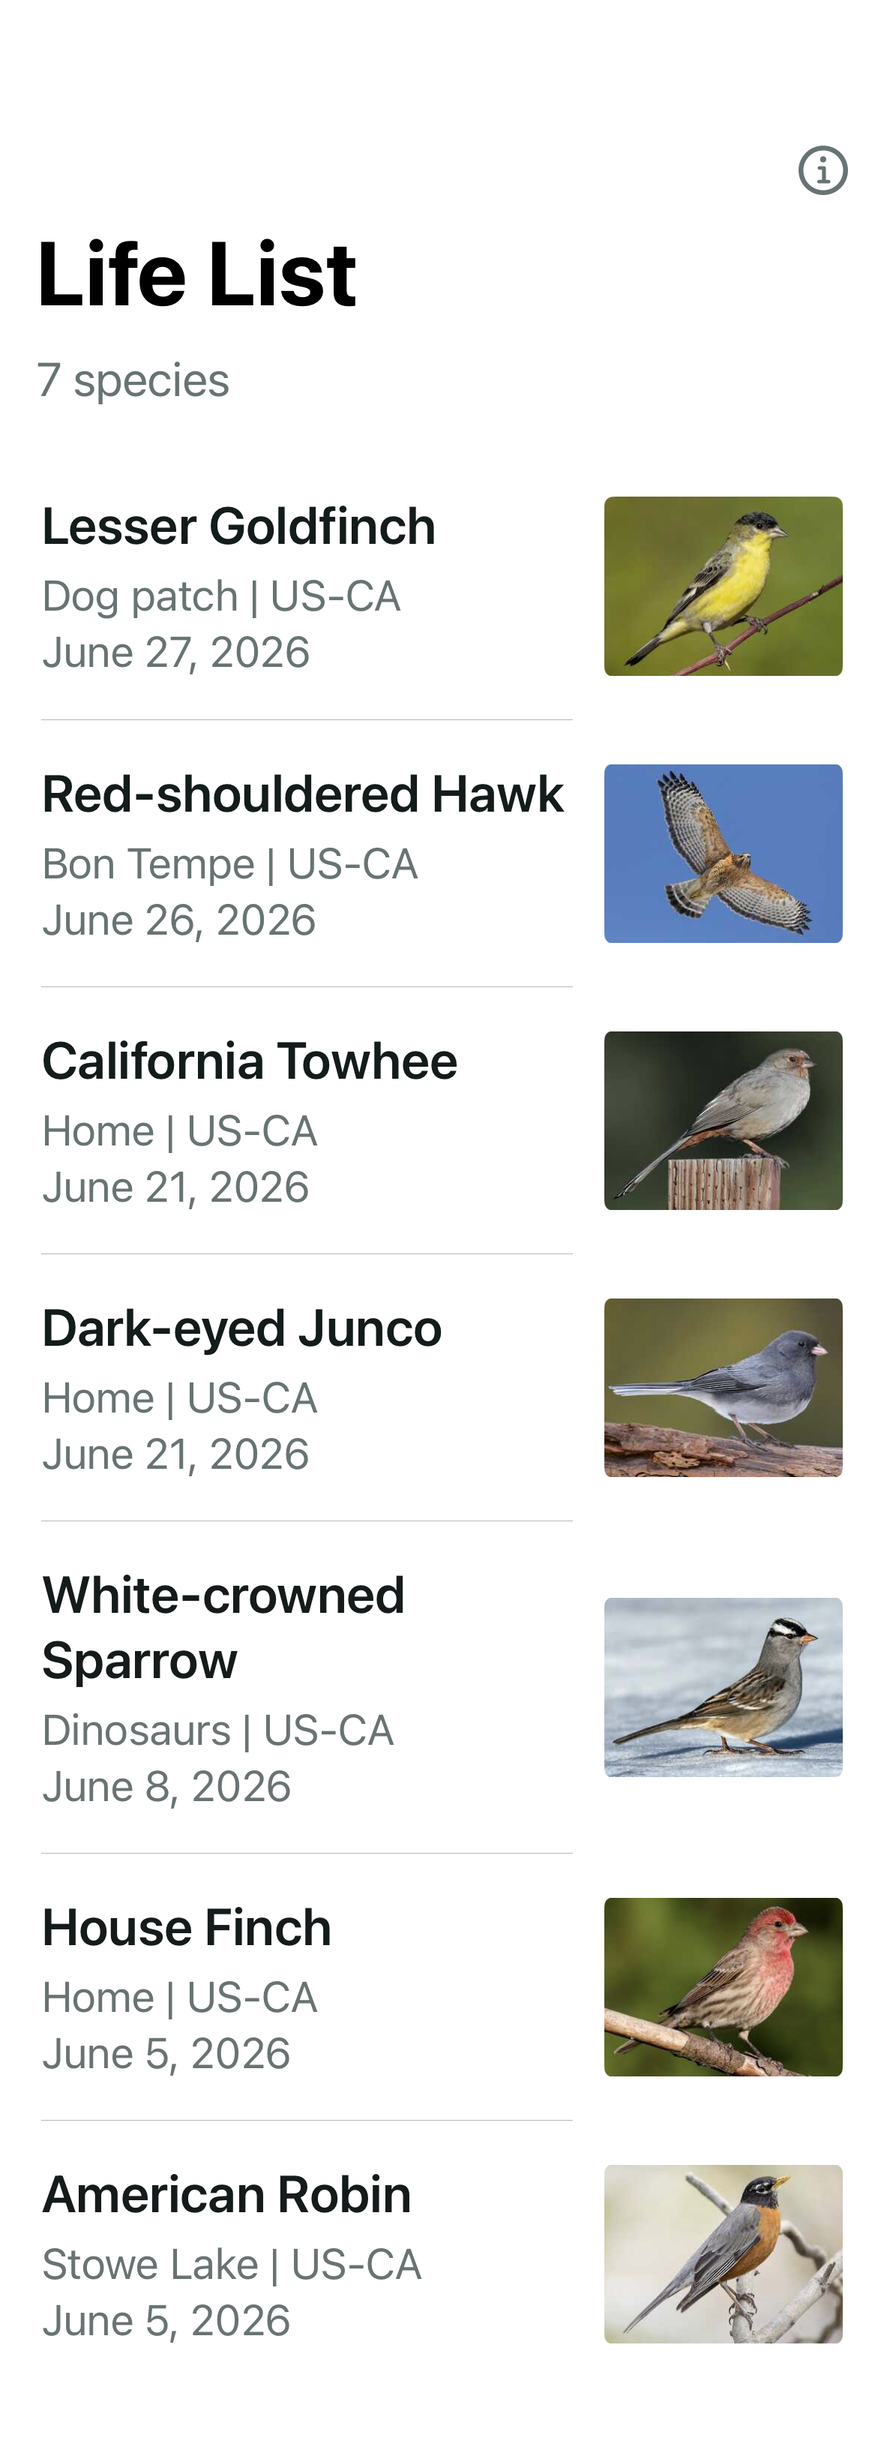
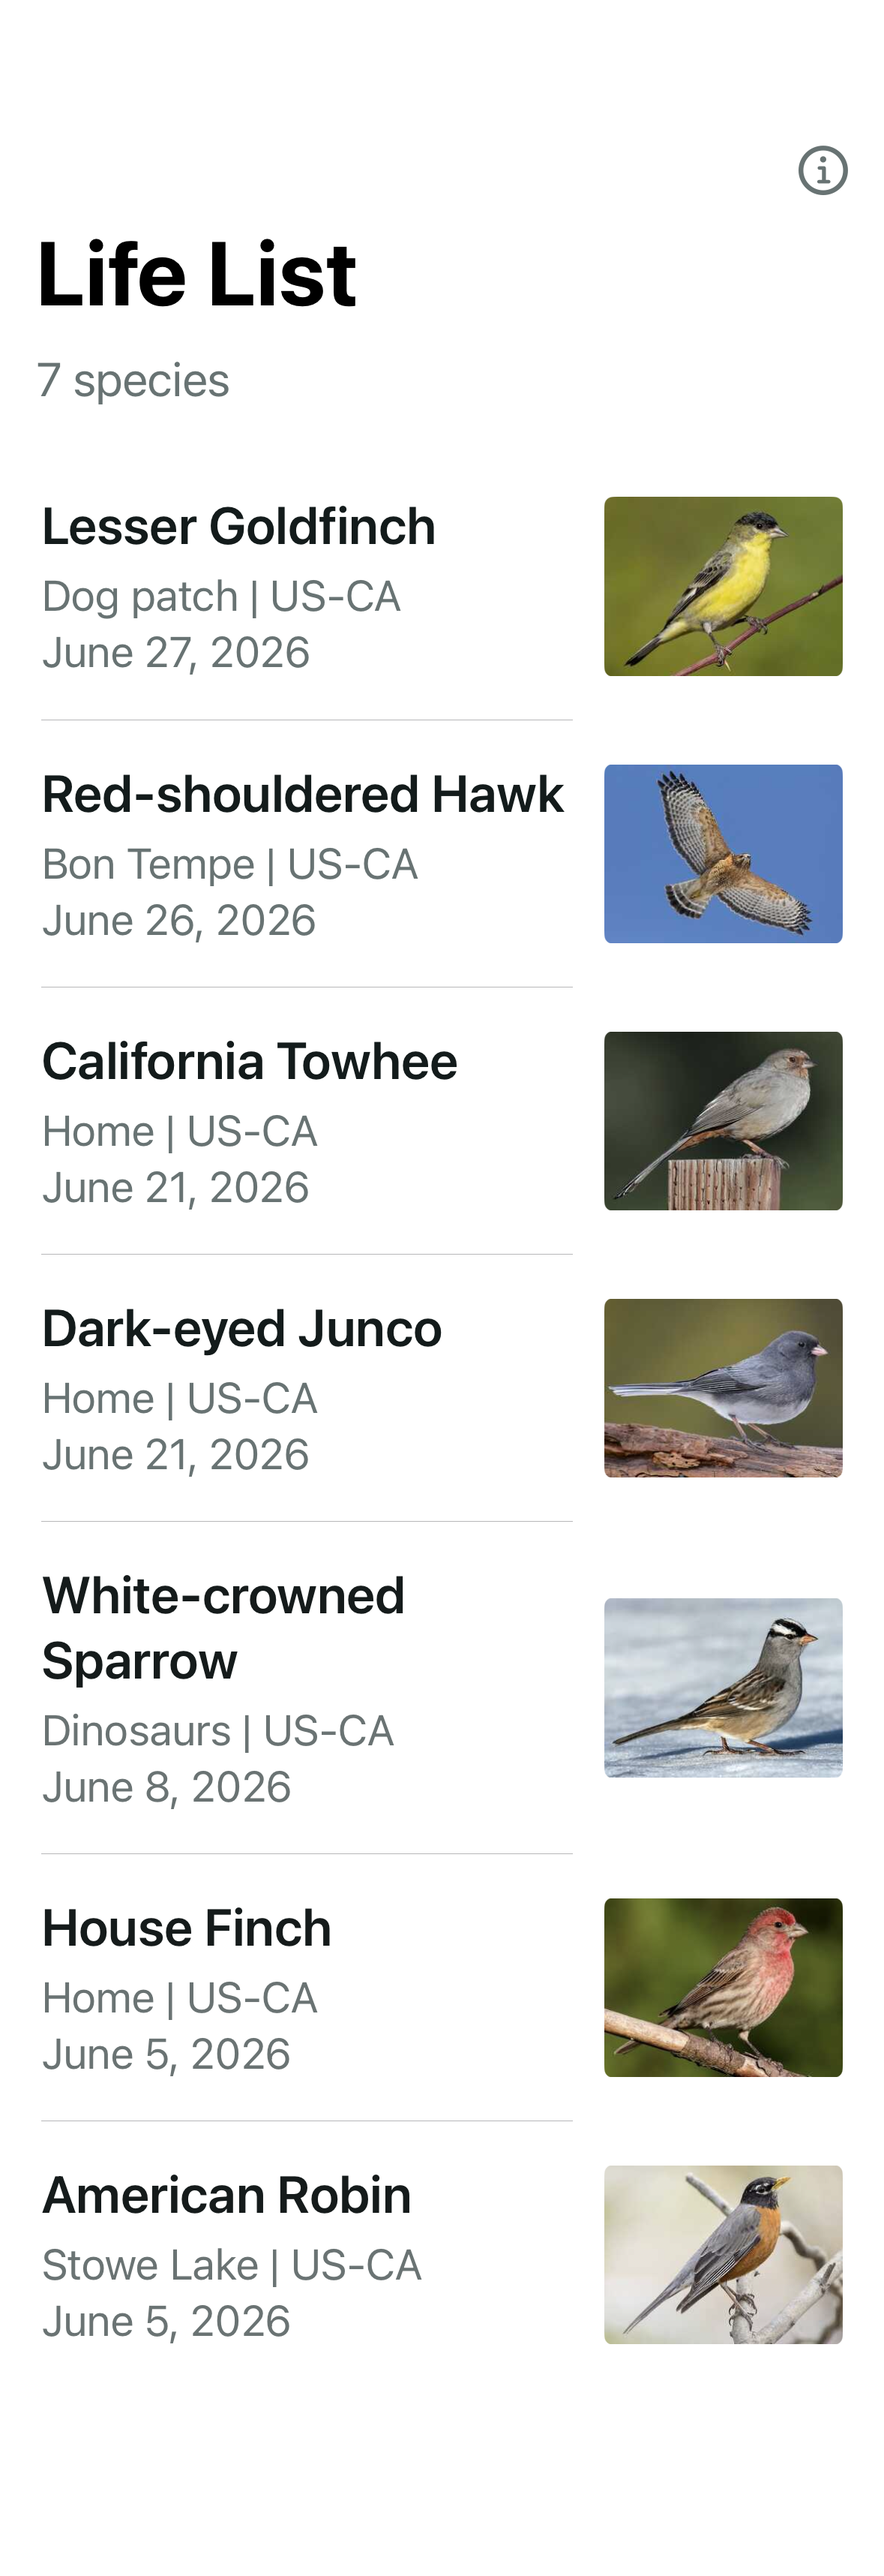
Restore scroll position when returning to a screen via hotspots.
Per-screen scroll is saved on navigation and reapplied after the image loads so index scroll survives round-trip hotspot navigation.

diff --git a/app.js b/app.js
@@ -414,6 +414,7 @@ const Viewer = (() => {
   let index = 0;
   let hotspotData = {};
   let blobUrls = [];
+  let scrollPositions = new Map();
   let onExit = () => {};
   let ignoreClickUntil = 0;
 
@@ -493,6 +494,7 @@ const Viewer = (() => {
     screens = bundle.screens;
     hotspotData = bundle.hotspotData;
     blobUrls = bundle.blobUrls;
+    scrollPositions = new Map();
     show(0);
   }
 
@@ -515,13 +517,23 @@ const Viewer = (() => {
     };
   }
 
+  function applyScroll(i) {
+    window.scrollTo(0, scrollPositions.get(i) ?? 0);
+  }
+
   function show(i) {
+    scrollPositions.set(index, window.scrollY);
     index = i;
-    window.scrollTo(0, 0);
     const screen = screens[i];
     img.src = screen.url;
     renderOverlays(screen.overlays ?? []);
     preloadNext(i);
+
+    if (img.complete && img.naturalWidth > 0) {
+      applyScroll(i);
+    } else {
+      img.addEventListener('load', () => applyScroll(i), { once: true });
+    }
   }
 
   function pointerCoords(evt) {
